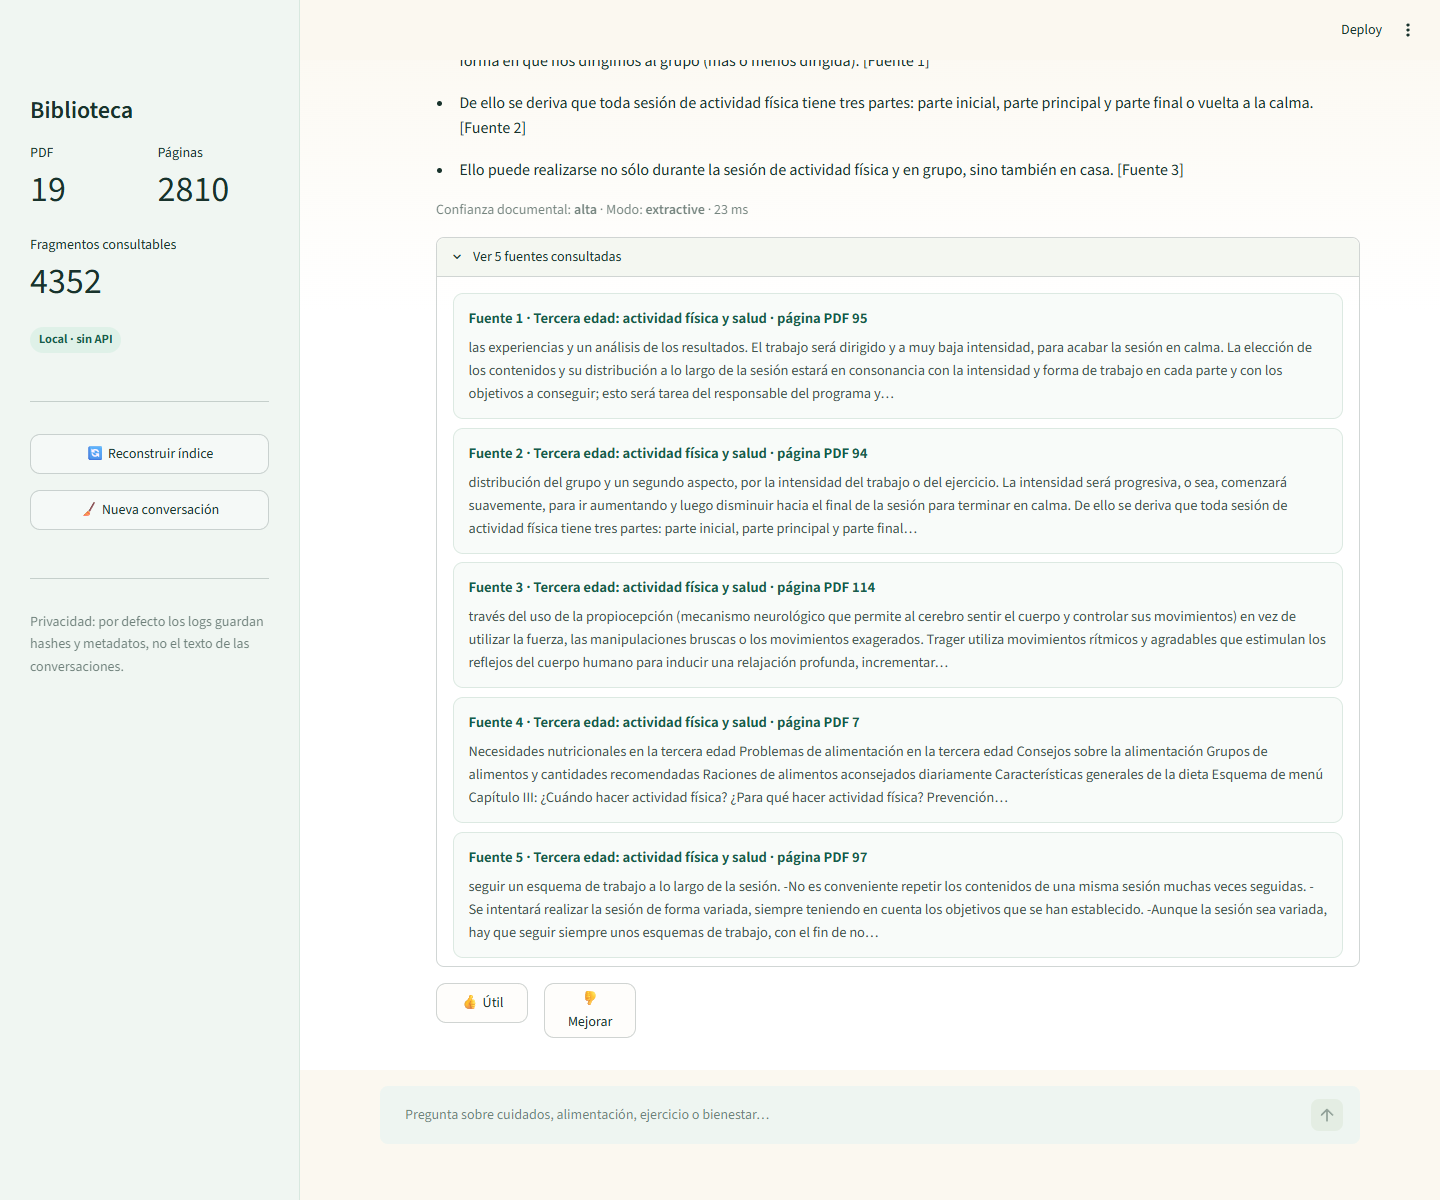
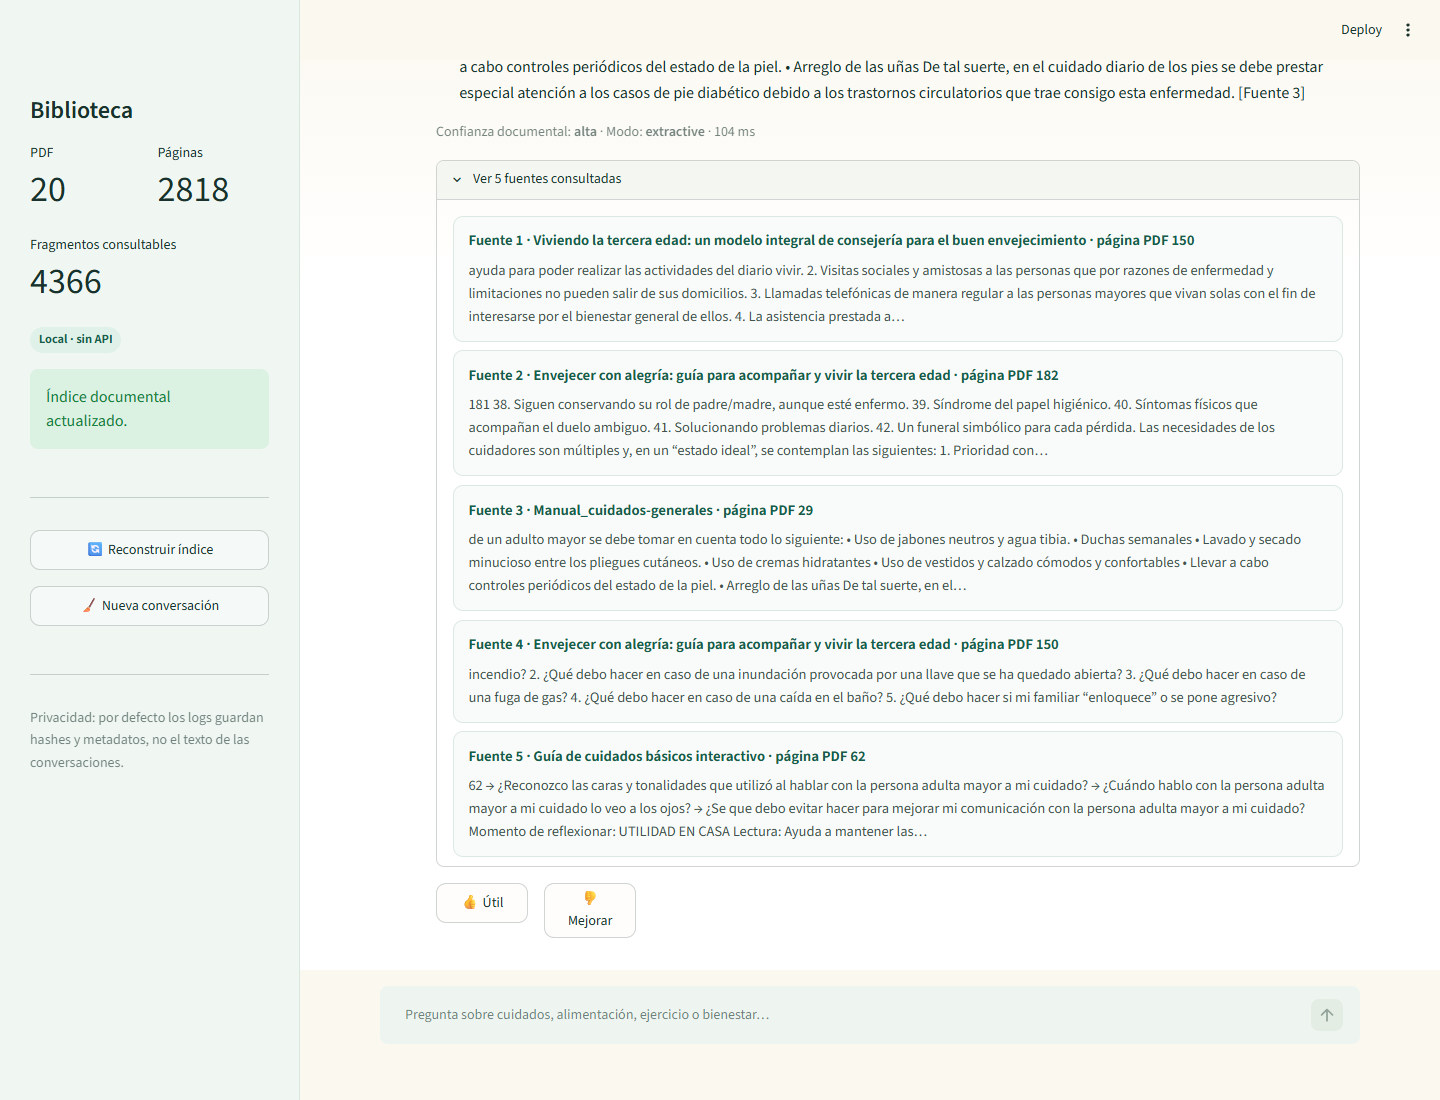
docs: refresh AAMIA evidence and OCI checklist

diff --git a/SUBMISSION_CHECKLIST.md b/SUBMISSION_CHECKLIST.md
@@ -5,17 +5,16 @@
 - [x] Aplicación funcional en local.
 - [x] Ingesta de PDF, recuperación, fuentes y fallback.
 - [x] README, arquitectura, ejecución y ejemplos.
-- [x] Pruebas, lint, Docker y CI.
-- [ ] Conectar esta carpeta con el repositorio público de GitHub.
-- [ ] Crear el commit final y hacer `push`.
+- [x] Pruebas, lint, Dockerfile y CI.
+- [x] Conectar esta carpeta con el repositorio público de GitHub.
+- [x] Crear el commit inicial y hacer `push` a `main`.
 - [ ] Confirmar que GitHub Actions termine en verde.
-- [ ] Verificar que ningún secreto o PDF sin permiso de redistribución esté publicado.
+- [x] Verificar que ningún secreto o PDF aportado sin permiso de redistribución esté publicado.
 
 ## Oracle Cloud
 
-- [ ] Crear repositorio en OCIR.
-- [ ] Construir y publicar la imagen con `deploy/oci/prepare-image.ps1`.
-- [ ] Crear una OCI Container Instance o una VM Compute.
+- [ ] Crear una VM Compute `VM.Standard.A1.Flex` Always Free (1 OCPU, 6 GB).
+- [ ] Clonar el repositorio y ejecutar `deploy/oci/bootstrap.sh`.
 - [ ] Abrir TCP 8501 en el NSG únicamente para la demostración.
 - [ ] Confirmar `/_stcore/health` = `ok` desde la URL pública.
 - [ ] Probar alimentación, ejercicio y pregunta fuera de alcance.

diff --git a/evidence/README.md b/evidence/README.md
@@ -10,7 +10,7 @@ Estas imágenes corresponden a la ejecución local verificada el 27 de julio de 
 
 ## Pendientes al desplegar en OCI
 
-1. Captura de **Container Instance Details** o **Compute Instance Details** con estado `Running`.
+1. Captura de **Compute Instance Details** con estado `Running` y shape `VM.Standard.A1.Flex`.
 2. Captura de la app abierta mediante la IP o URL pública de OCI.
 3. En la app, expandir “Ver fuentes consultadas” para mostrar documento y página.
 4. Guardar las imágenes como `oci-running.png` y `oci-app.png`.
